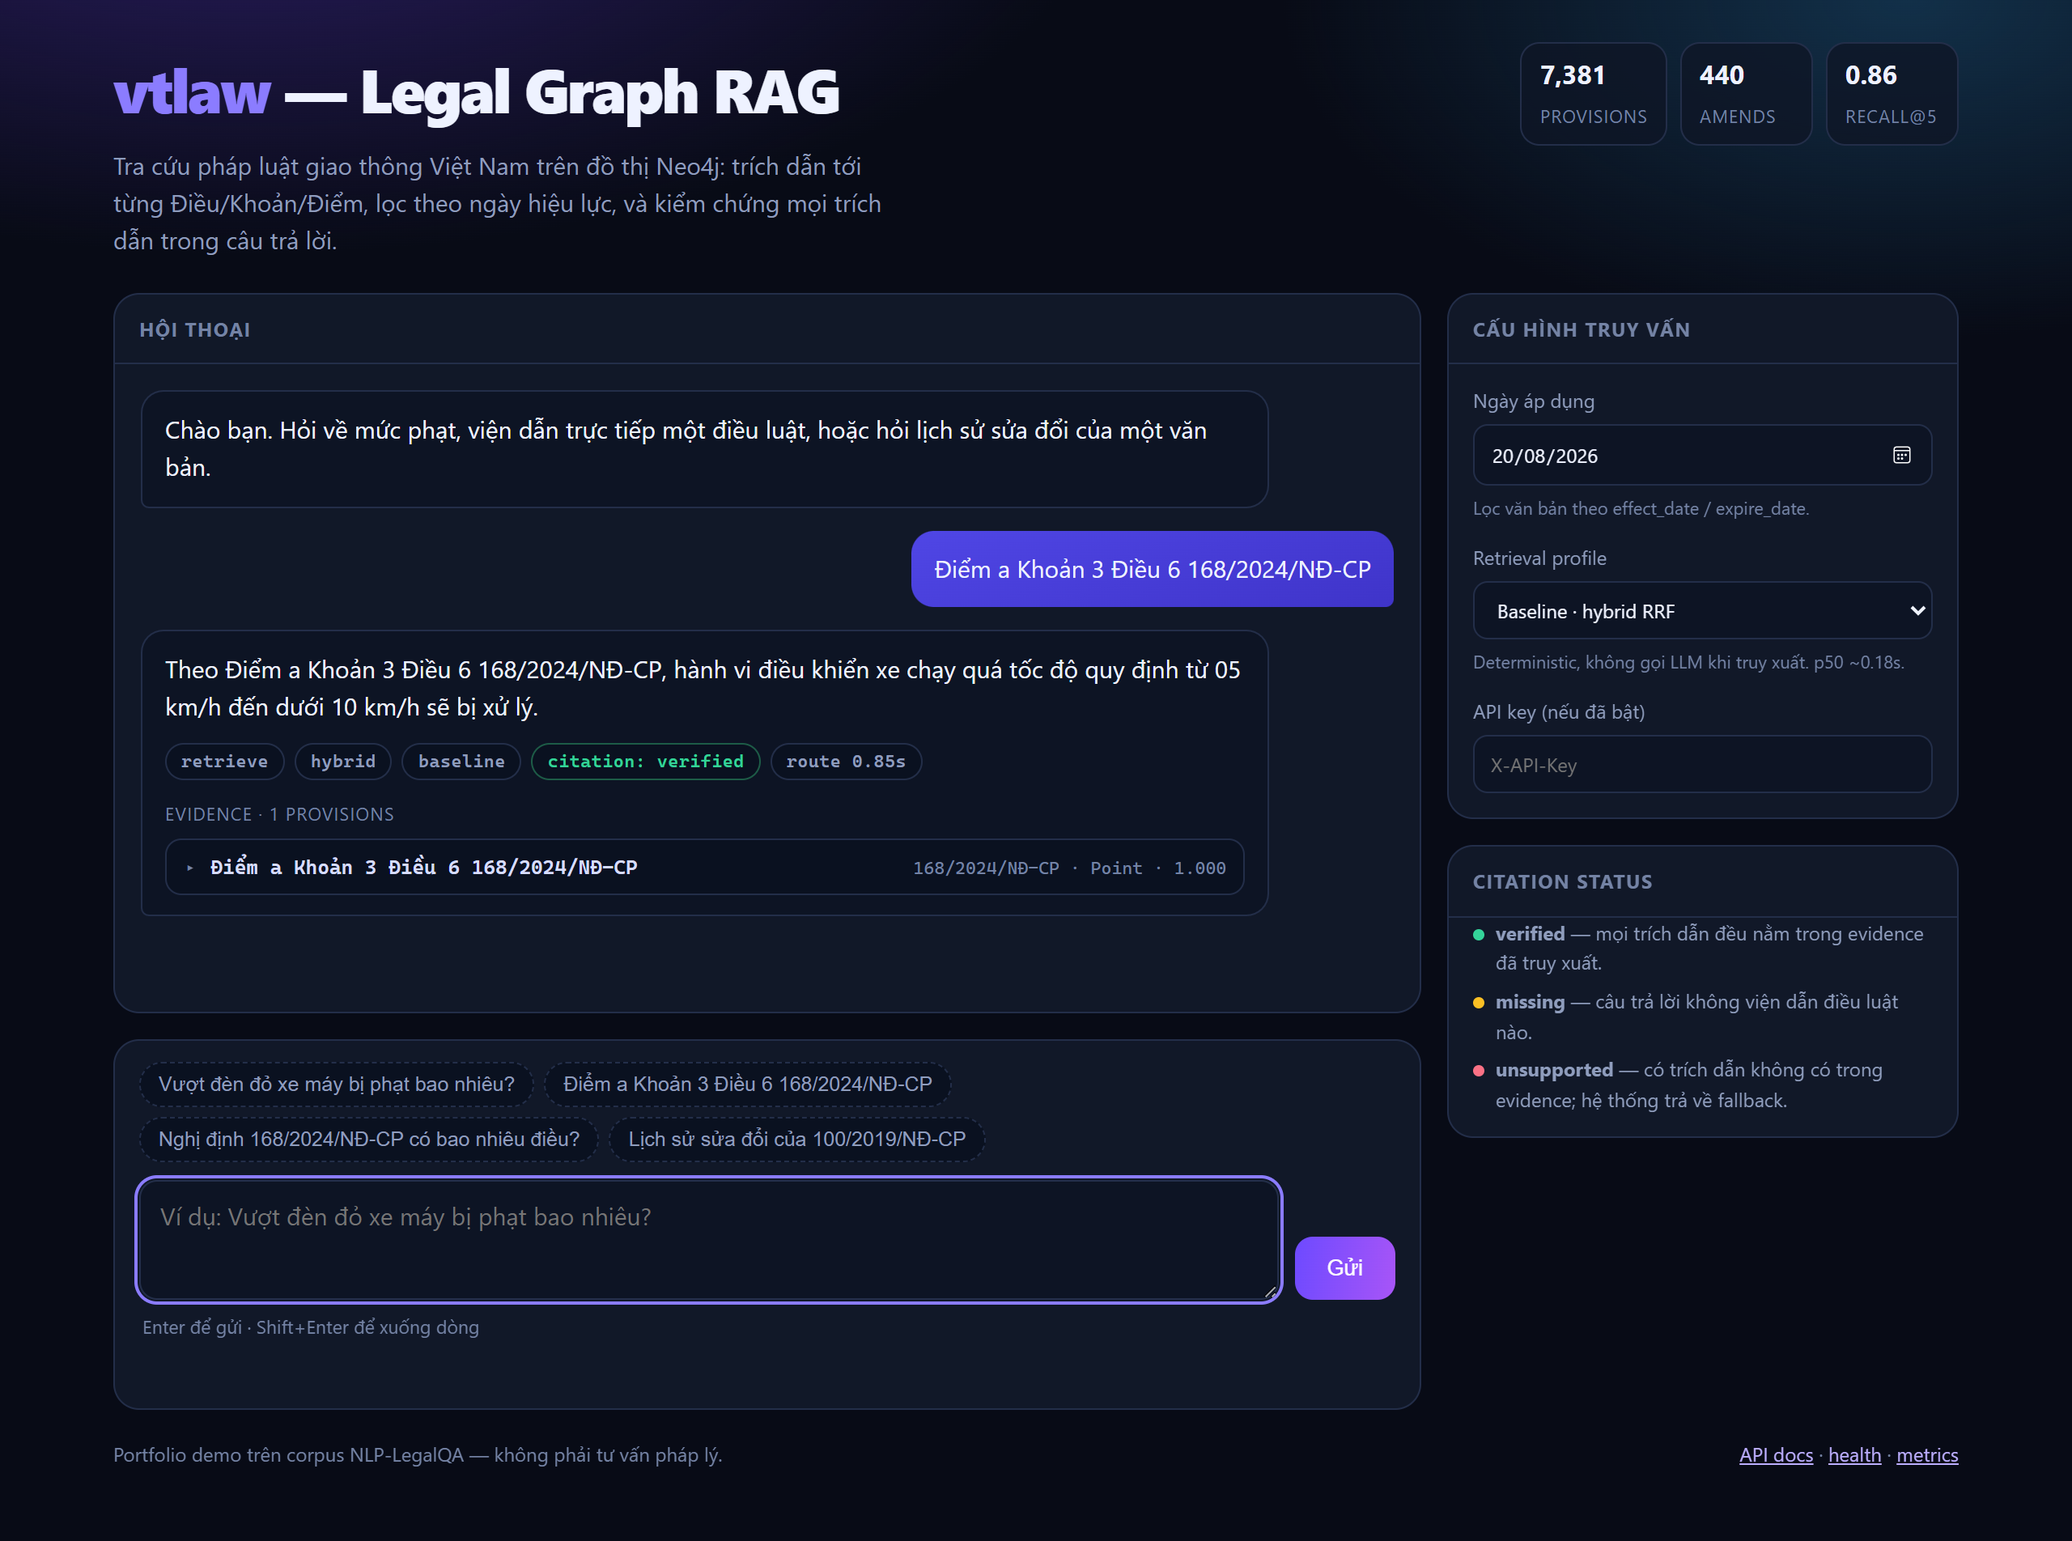
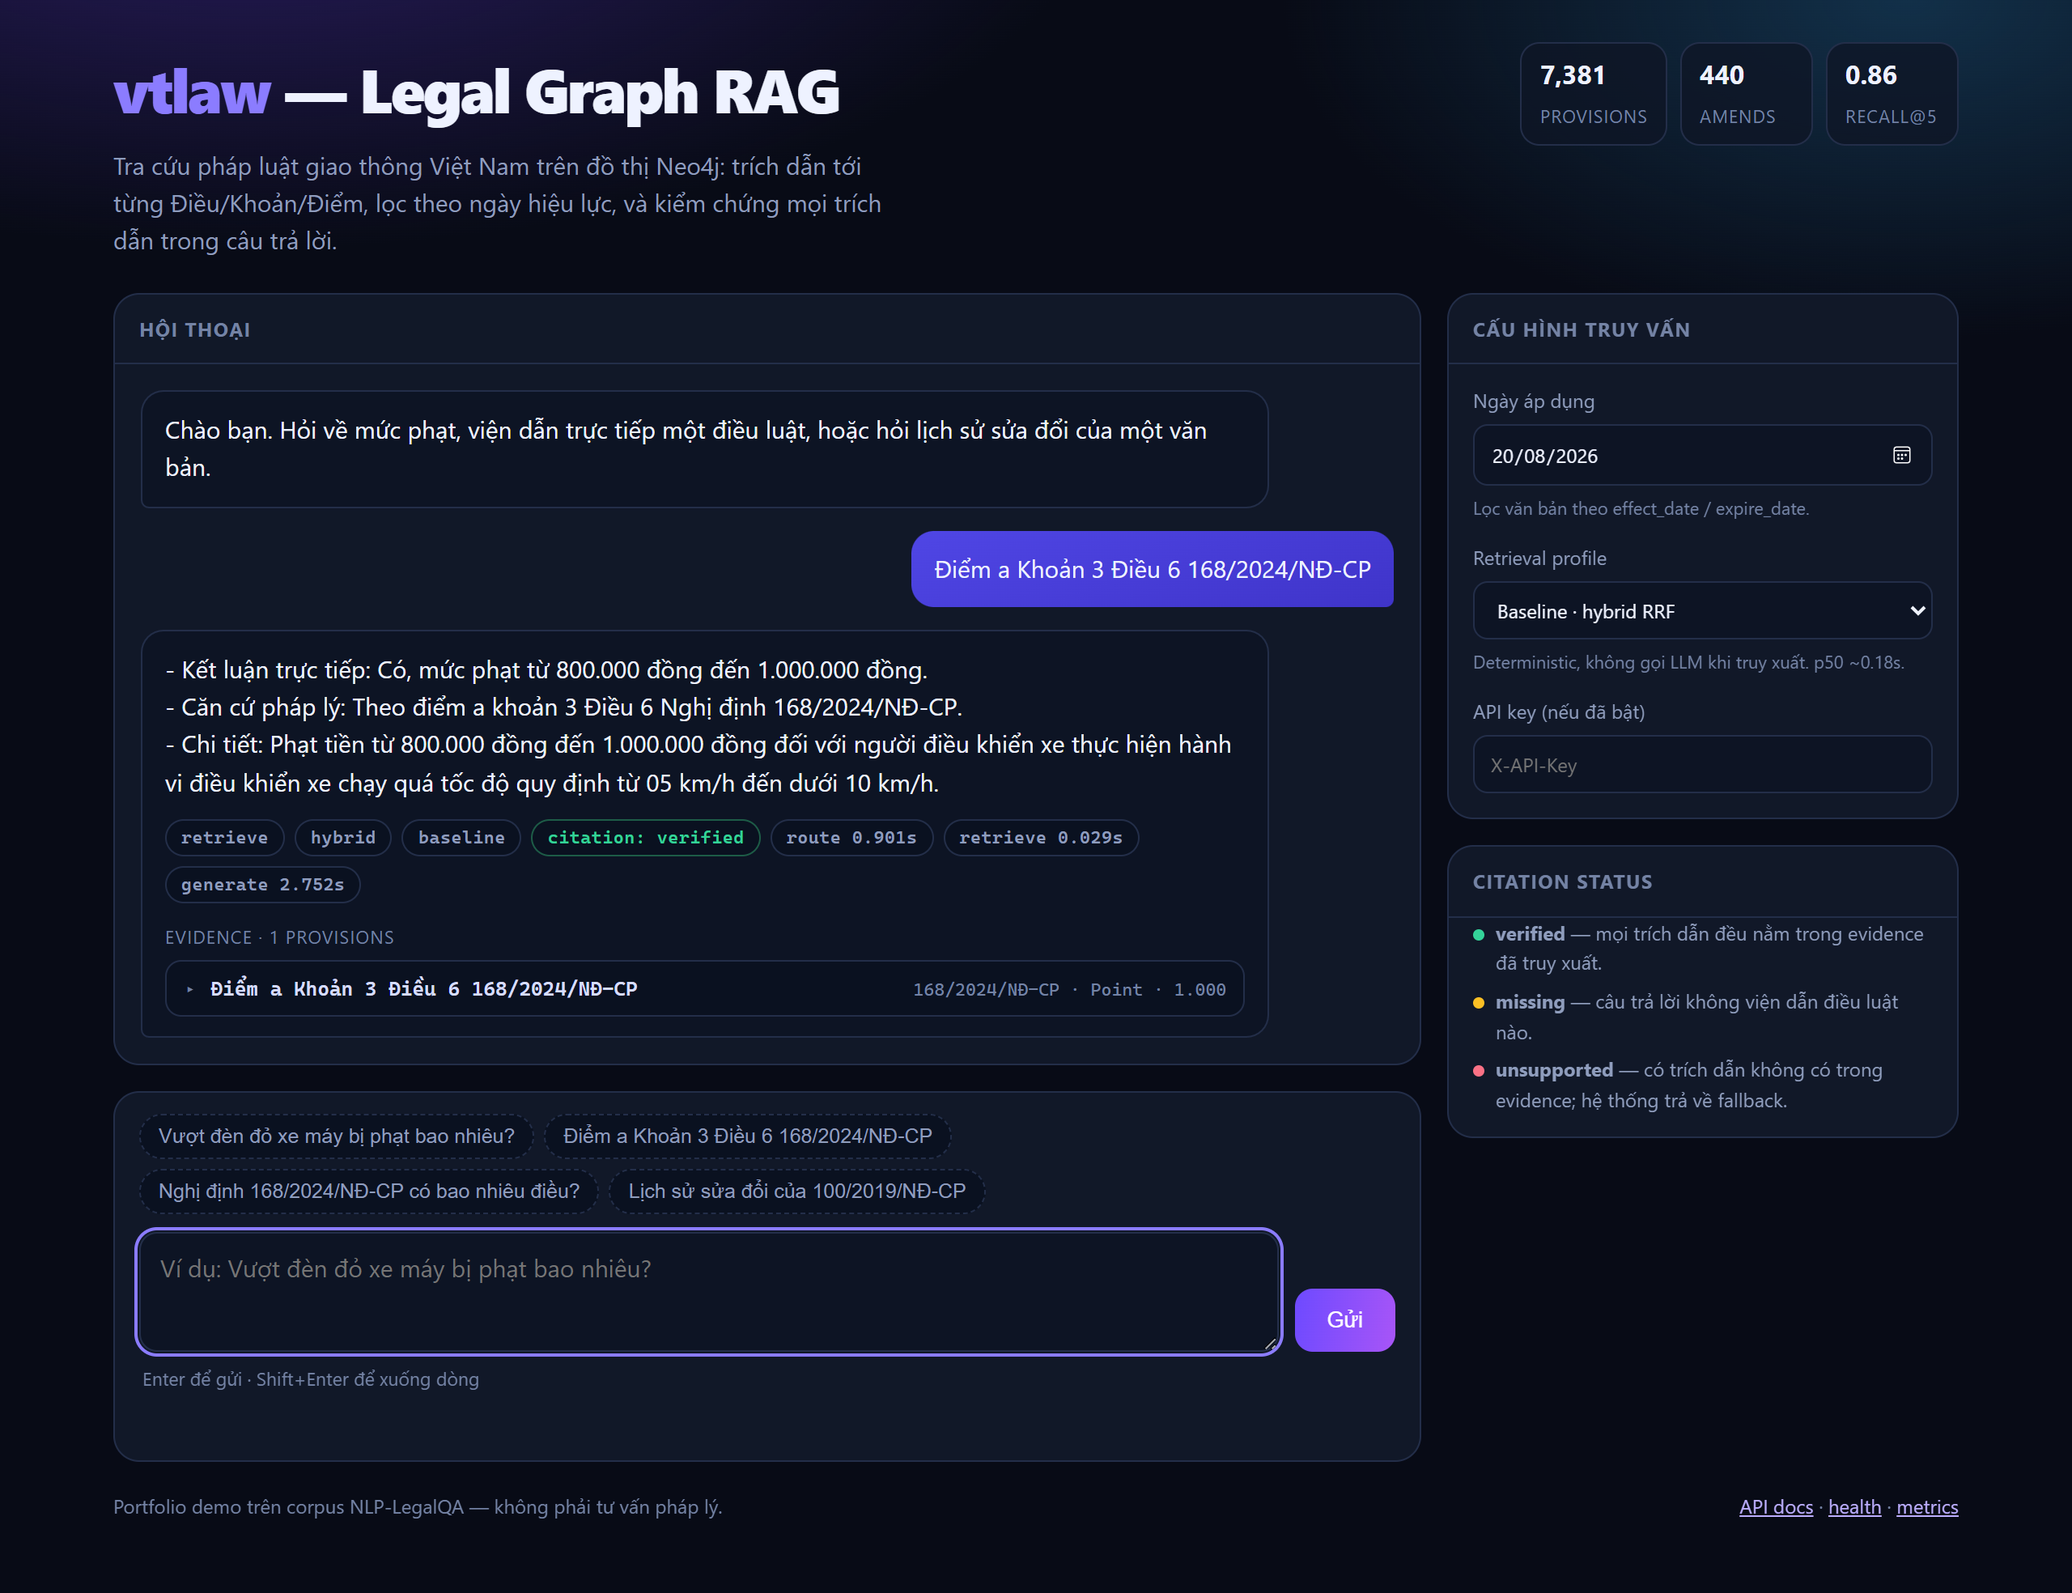
fix(retrieve): a Node read through Result.data() has no labels
fetch_hierarchy walks UP from a hit to build Điều → Khoản → Điểm, because the
Point names the offence while its parent Clause carries the penalty amount. Its
Cypher returned nodes(path), but read through Result.data() a Node arrives as a
bare property dict with no labels at all, so every `label == "Article"` /
`"Clause"` test fell through and the entire path was discarded. Each provision
reached the prompt as one line of its own content and nothing else.

The model therefore had an offence with no amount attached, and borrowed a number
from whichever nearby clause looked plausible: 10.000.000–14.000.000 đồng, a
Khoản 9 aggregate covering unrelated violations, attached itself to a red-light
question. Citation verification passed it — the citation was in the evidence.

Project {labels: labels(n), props: properties(n)} server-side instead. The
stale-citation rate measured in the previous commit drops 0.226 -> 0.065; the
red-light answer now reads 4.000.000–6.000.000 đồng from điểm c khoản 7 Điều 7
168/2024/NĐ-CP, which is the correct current provision.

The tests passed throughout: their fixtures flattened labels alongside the
properties, a shape the driver never produces. Fixtures now build entries through
one _node() helper in the real shape, and the hierarchy test asserts the parent
Clause's amount reaches the context. Screenshots recaptured.

diff --git a/tests/retrieve/test_context_builder.py b/tests/retrieve/test_context_builder.py
@@ -43,6 +43,19 @@ def mock_client():
     return MagicMock()
 
 
+def _node(label: str, **props) -> dict:
+    """One hierarchy entry in the shape the Cypher projection actually returns.
+
+    The query asks for `{labels: labels(n), props: properties(n)}` because
+    `nodes(path)` read through Result.data() arrives as bare property dicts with
+    no labels at all. Fixtures that flattened labels alongside the properties
+    tested a shape Neo4j never sends, which hid a real bug: every label test fell
+    through, so the parent Clause carrying the penalty amount never reached the
+    prompt.
+    """
+    return {"labels": [label], "props": props}
+
+
 def _mock_data(mock_client, data):
     """Helper to set mock Neo4j query data."""
     mock_client.session.return_value.__enter__.return_value.run.return_value.data.return_value = (  # noqa: E501
@@ -71,9 +84,9 @@ class TestFetchHierarchy:
             {
                 "uid": "168/2024/NĐ-CP::article::6::clause::3::point::a",
                 "hierarchy": [
-                    {"labels": ["Article"], "number": "6", "title": "Vi phạm tốc độ"},
-                    {"labels": ["Clause"], "number": "3", "content": "Phạt tiền từ 800.000đ"},
-                    {"labels": ["Point"], "letter": "a", "content": "Chạy quá tốc độ 5-10 km/h"},
+                    _node("Article", number="6", title="Vi phạm tốc độ"),
+                    _node("Clause", number="3", content="Phạt tiền từ 800.000đ"),
+                    _node("Point", letter="a", content="Chạy quá tốc độ 5-10 km/h"),
                 ],
                 "doc_identity": "168/2024/NĐ-CP",
                 "effect_date": "2025-01-01",
@@ -90,13 +103,17 @@ class TestFetchHierarchy:
         assert "Vi phạm tốc độ" in ctx
         assert "Khoản 3" in ctx
         assert "Điểm a" in ctx
+        # The whole reason for walking UP: the Point names the offence, the
+        # parent Clause carries the money. An answer built without it states a
+        # penalty amount the evidence never contained.
+        assert "Phạt tiền từ 800.000đ" in ctx
 
     def test_handles_article_without_title(self, mock_client):
         _mock_data(mock_client, [
             {
                 "uid": "test::article::1",
                 "hierarchy": [
-                    {"labels": ["Article"], "number": "1", "title": None},
+                    _node("Article", number="1", title=None),
                 ],
                 "doc_identity": "test",
                 "effect_date": None,
@@ -112,7 +129,7 @@ class TestFetchHierarchy:
             {
                 "uid": "test::clause::1",
                 "hierarchy": [
-                    {"labels": ["Clause"], "number": "1", "content": "Main content"},
+                    _node("Clause", number="1", content="Main content"),
                 ],
                 "doc_identity": "test",
                 "effect_date": "2025-01-01",
@@ -282,7 +299,7 @@ class TestBuildFullContext:
                     {
                         "uid": uid,
                         "hierarchy": [
-                            {"labels": ["Article"], "number": "1", "title": "Test"},
+                            _node("Article", number="1", title="Test"),
                         ],
                         "doc_identity": "test",
                         "effect_date": "2025-01-01",
@@ -326,7 +343,7 @@ class TestBuildFullContext:
                     {
                         "uid": uid,
                         "hierarchy": [
-                            {"labels": ["Point"], "letter": "a", "content": "Point a"},
+                            _node("Point", letter="a", content="Point a"),
                         ],
                         "doc_identity": "test",
                         "effect_date": "2025-01-01",

diff --git a/src/vtlaw/retrieve/context_builder.py b/src/vtlaw/retrieve/context_builder.py
@@ -38,7 +38,7 @@ MATCH path = (d:Document)
       -[:HAS_ARTICLE|HAS_CLAUSE|HAS_POINT*]->(target)
 WHERE target.uid = target_uid
 RETURN target.uid AS uid,
-       nodes(path)[1..] AS hierarchy,
+       [n IN nodes(path)[1..] | {labels: labels(n), props: properties(n)}] AS hierarchy,
        d.doc_identity AS doc_identity,
        toString(d.effect_date) AS effect_date
 """
@@ -74,13 +74,19 @@ def fetch_hierarchy(
 
     for record in records:
         uid = record["uid"]
-        nodes = record["hierarchy"] or []
+        entries = record["hierarchy"] or []
 
         lines: list[str] = []
-        for node in nodes:
-            # Handle both Neo4j Node objects (.labels) and plain dicts ("labels" key)
-            labels = list(node.labels) if hasattr(node, "labels") else node.get("labels", [])
+        for index, entry in enumerate(entries):
+            # The query projects {labels, props} explicitly. Reading `labels(n)`
+            # server-side is the only way to get them: `nodes(path)` through
+            # Result.data() arrives as bare property dicts, so every label test
+            # fell through and the whole hierarchy — including the parent Clause
+            # that carries the penalty amount — was dropped from the context.
+            labels = entry.get("labels") or []
+            node = entry.get("props") or {}
             label = labels[0] if labels else ""
+            is_target = index == len(entries) - 1
 
             if label == "Article":
                 title = node.get("title")
@@ -91,8 +97,9 @@ def fetch_hierarchy(
             elif label == "Clause":
                 number = node.get("number", "")
                 content = (node.get("content") or "").strip()
-                # If this is the target (last node), just label it
-                if node == nodes[-1]:
+                # The target's own content is appended below as "Nội dung"; an
+                # ancestor Clause contributes the penalty the Point refers to.
+                if is_target:
                     lines.append(f"Khoản {number}.")
                 elif content:
                     lines.append(f"Khoản {number}.\n{content}")
@@ -110,8 +117,8 @@ def fetch_hierarchy(
                 )
 
         # Target's own content
-        target_node = nodes[-1] if nodes else None
-        main_content = (target_node.get("content") or "").strip() if target_node else ""
+        target = (entries[-1].get("props") or {}) if entries else {}
+        main_content = (target.get("content") or "").strip()
 
         # Document header
         doc_id = record["doc_identity"] or ""

diff --git a/docs/benchmark.md b/docs/benchmark.md
@@ -116,16 +116,34 @@ So it needed its own measurement. `scripts/measure_citation_currency.py` scores
 the questions where the defect is possible at all — evidence spanning two or
 more penalty decrees — and asks whether the answer cited only a superseded one:
 
-| Prompt | Contested questions | Cited only a superseded decree | Rate |
+| Change | Contested questions | Cited only a superseded decree | Rate |
 |---|---:|---:|---:|
-| Effective date in each provision header only | 31 | 15 | 0.484 |
+| Starting point | 31 | 15 | 0.484 |
 | Newest decree named explicitly before the evidence | 31 | 7 | 0.226 |
+| Ancestor hierarchy actually reaching the prompt | 31 | **2** | **0.065** |
 
-Eight answers fixed, none newly broken. The dates were already in the context —
-each provision header carries `Hiệu lực: <date>` — but the evidence list is
-ordered by retrieval score, so the model anchored on hit #1. Stating the ordering
-as a fact read from the graph, rather than leaving it to be inferred, halved the
-rate.
+Two separate causes, found in that order.
+
+**The evidence list is ordered by retrieval score.** The effective date was
+already in every provision header, but the model anchored on hit #1 and cited
+whatever decree ranked first. Stating the ordering as a fact read from the graph,
+rather than leaving it to be inferred, took 0.484 to 0.226.
+
+**The ancestor hierarchy was silently missing.** `fetch_hierarchy` walks UP from
+a hit to build `Điều → Khoản → Điểm`, and the parent Clause is where a penalty
+amount lives. Its Cypher returned `nodes(path)`, but read through
+`Result.data()` a Node arrives as a bare property dict with **no labels at all** —
+so every `label == "Article"` / `"Clause"` test fell through and the whole path
+was dropped. Each provision reached the prompt as its own one-line content and
+nothing else. The model had an offence with no amount attached, so it borrowed a
+number from whichever nearby clause looked plausible; that is how
+`10.000.000 – 14.000.000 đồng`, a Khoản 9 aggregate covering other violations,
+attached itself to a red-light question. Projecting
+`{labels: labels(n), props: properties(n)}` server-side took 0.226 to 0.065.
+
+The unit tests passed throughout, because their fixtures flattened labels
+alongside the properties — a shape Neo4j never sends. That is the second test in
+this project found to pass for the wrong reason.
 
 A `Luật` and a `Nghị định` are not compared: they are different instruments, not
 two versions of one rule. A question that names a decree ("Nghị định
@@ -133,10 +151,10 @@ two versions of one rule. A question that names a decree ("Nghị định
 is correct rather than stale — scoring it as stale was a false positive in the
 first version of this measurement.
 
-The remaining 0.226 is not solved by prompting. Those are behaviours the newer
-decree does not obviously cover, where picking the older text may even be right,
-and the corpus holds no consolidated version to check against. Recorded, not
-claimed as fixed. Artifacts: `2026-08-20-citation-currency-{before,after}.json`.
+The remaining 0.065 is two questions about behaviours the newer decree does not
+clearly cover, where the older text may even be the right answer, and the corpus
+holds no consolidated version to arbitrate. Recorded, not claimed as fixed.
+Artifacts: `2026-08-20-citation-currency-{before,after,hierarchy-fixed}.json`.
 
 ## Interpretation and limits
 

diff --git a/docs/portfolio-case-study.md b/docs/portfolio-case-study.md
@@ -70,7 +70,7 @@ naive RAG on Vietnamese traffic law:
 | Decomposition reproducibility | ±0.014 Recall@5 run-to-run; reported as a range, not a point |
 | vs upstream basic RAG (same 200 rows) | 0.5637 vs 0.4892 Recall@5, zero LLM calls either side |
 | Reranker decision | rejected as default: regresses QA_NLP, costs 7–9 s p50 |
-| Stale-citation rate | 0.484 → 0.226 on the 31 questions where two decrees compete |
+| Stale-citation rate | 0.484 → 0.065 on the 31 questions where two decrees compete |
 | Latency | 0.18 s p50 baseline; 1.5–1.7 s p50 with decomposition |
 | Quality gates | 378 offline tests, isolated Neo4j integration suite, Ruff, Docker build/import/non-root check |
 
@@ -131,9 +131,17 @@ even looking.
 
 I measured it instead of guessing: 15 of 31 questions where two decrees compete
 cited only the superseded one. Naming the newest decree explicitly in the prompt
-took that to 7. The remaining 7 are not a prompting problem — they are behaviours
-the newer decree does not clearly cover, and the corpus holds no consolidated
-text to arbitrate. That number is recorded, not rounded away.
+took that to 7 — and chasing the remaining 7 found the real cause. The whole
+ancestor hierarchy was missing from the prompt: `nodes(path)` read through the
+driver's `Result.data()` loses the node labels, so every label test fell through
+and the parent Clause holding the penalty amount never arrived. The model had an
+offence with no amount attached and borrowed a plausible-looking number from a
+neighbouring clause. Fixing the projection took the rate to 0.065.
+
+The unit tests passed the whole time, because their fixtures used a node shape
+Neo4j never sends. The remaining 2 questions are behaviours the newer decree does
+not clearly cover, and the corpus holds no consolidated text to arbitrate. That
+number is recorded, not rounded away.
 
 This is a production-minded portfolio system, not a legal-advice product. It uses
 only the fixed NLP-LegalQA artifacts. Amendment instructions are modeled as graph

diff --git a/CLAUDE.md b/CLAUDE.md
@@ -84,10 +84,18 @@ Non-trivial logic leaves one runnable check behind. Prefer a test that fails
 for the specific reason the bug existed, with the measured evidence in the
 docstring, over a generic assertion.
 
-Watch for tests that pass for the wrong reason. Two real cases here: a fixture
+Watch for tests that pass for the wrong reason. Three real cases here: a fixture
 that `return`ed inside a `with patch(...)` block, so the patches were gone
-before the test body ran; and `assert "http://" not in page`, which allows
-`//cdn.example/x.js` and uppercase schemes.
+before the test body ran; `assert "http://" not in page`, which allows
+`//cdn.example/x.js` and uppercase schemes; and a hierarchy fixture that
+flattened Neo4j labels alongside node properties — a shape the driver never
+sends, which hid the whole ancestor path being dropped from every prompt.
+
+**A Neo4j Node read through `Result.data()` has no labels.** `nodes(path)` comes
+back as bare property dicts, so `label == "Clause"` silently never matches.
+Project what you need server-side: `{labels: labels(n), props: properties(n)}`.
+This dropped the parent Clause — where the penalty amount lives — from every
+generated answer while all tests passed.
 
 Integration tests **wipe Neo4j**. They require `VTLAW_TEST_WIPE=1` and should
 only run against CI's throwaway service container or an expendable local
